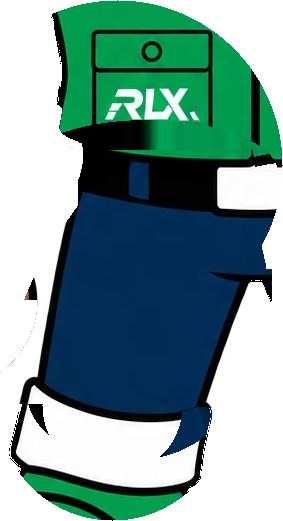
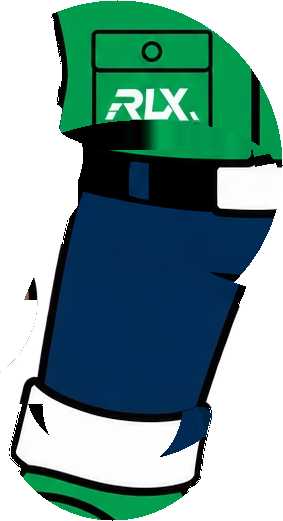
Puppet: keep the pelvis whole
The design layers split the pants down the middle, so each leg carried half
the pelvis. The pelvis (belt to just past the crotch, in a shallow V) is now
part of the body, and each thigh starts below it and slides up under the
hips when the leg lifts.

Claude-Session: https://claude.ai/code/session_01XnmiJCNWyPAE3i8SfpRvaf

Changed region(s): [[0.8198, 0.4607, 0.9611, 0.5835], [0.2261, 0.4299, 0.2544, 0.4607]]

diff --git a/src/components/world/RockyPuppet.module.css b/src/components/world/RockyPuppet.module.css
@@ -101,7 +101,7 @@
 }
 
 /* ---- Walk / run: seen from the front, each leg lifts in turn (the thigh
-   slides up under the vest) while the arms swing and the elbows follow. ---- */
+   slides up under the hips) while the arms swing and the elbows follow. ---- */
 .walk .legL,
 .run .legL {
   animation: hipL 0.7s ease-in-out infinite;
@@ -150,7 +150,7 @@
     transform: translateY(0) rotate(0);
   }
   25% {
-    transform: translateY(-2.6%) rotate(1.5deg);
+    transform: translateY(-2.2%) rotate(1deg);
   }
 }
 @keyframes hipR {
@@ -160,7 +160,7 @@
     transform: translateY(0) rotate(0);
   }
   75% {
-    transform: translateY(-2.6%) rotate(-1.5deg);
+    transform: translateY(-2.2%) rotate(-1deg);
   }
 }
 @keyframes swingL {

diff --git a/tools/build-rocky-puppet.py b/tools/build-rocky-puppet.py
@@ -162,6 +162,9 @@ def dilate(mask: np.ndarray, r: int) -> np.ndarray:
     return out
 
 
+# The V-shaped bottom edge of the pelvis: lowest (canvas y) at the crotch x.
+PELVIS_X, PELVIS_Y, PELVIS_SLOPE = 565, 995, 0.35
+
 # Every edge a piece shares with a piece above it gets a strip of art under
 # the neighbour (canvas px), so when the art is scaled down and the pieces
 # move a little, the soft edge shows art behind it, never the background.
@@ -221,10 +224,18 @@ def main() -> None:
         best = min(dots, key=lambda d: (d[0] - gx) ** 2 + (d[1] - gy) ** 2)
         joints[name] = {"x": int(best[0]), "y": int(best[1])}
 
+    yy, xx = np.mgrid[0:h, 0:w]
+    # The pelvis is one piece with the body: the pants from the belt down to just
+    # past the crotch, cut in a shallow V (lower in the middle, like briefs). The
+    # thighs start below it, so a lifting leg slides up under whole hips instead
+    # of carrying half the pelvis with it.
+    pelvis = yy < PELVIS_Y - PELVIS_SLOPE * np.abs(xx - PELVIS_X)
+    for n in ("thigh-left", "thigh-right"):
+        owner[(owner == rank[n]) & pelvis] = rank["body"]
+
     # Past the elbow or the knee everything belongs to the lower piece, the rest
     # of the limb to the upper one, which ends in a round cap at the joint: when the joint bends, the end
     # that shows is the rounded cap, never the flat cut of the layer.
-    yy, xx = np.mgrid[0:h, 0:w]
     for upper, lower, top, mid in (
         ("upper-arm-left", "forearm-left", "shoulder-left", "elbow-left"),
         ("upper-arm-right", "forearm-right", "shoulder-right", "elbow-right"),
